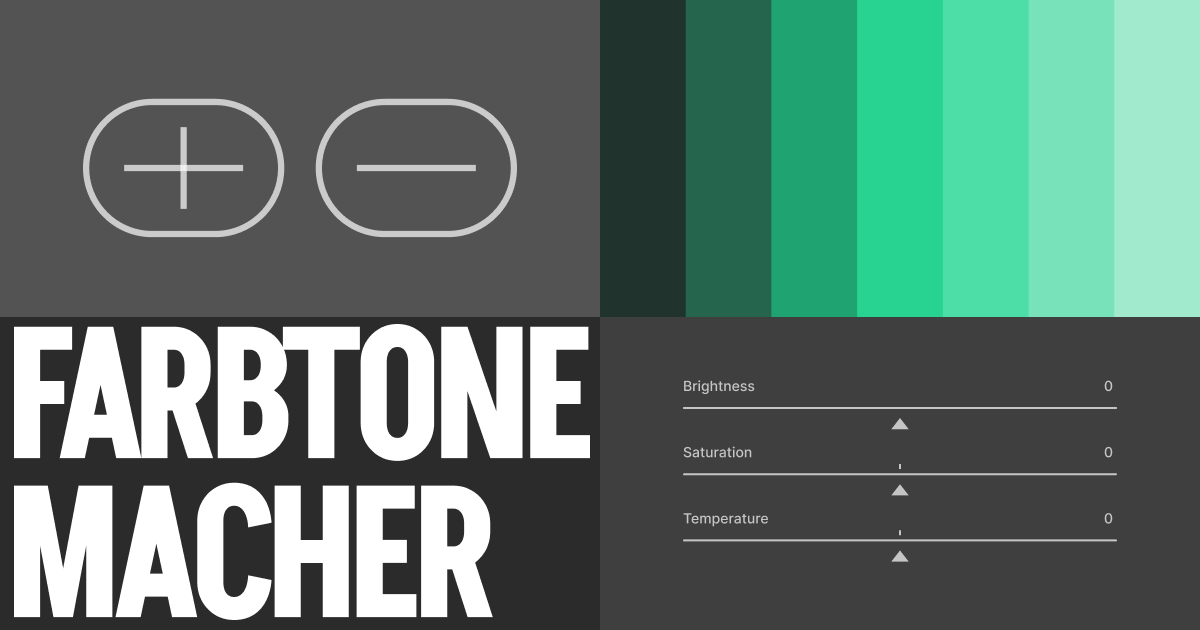
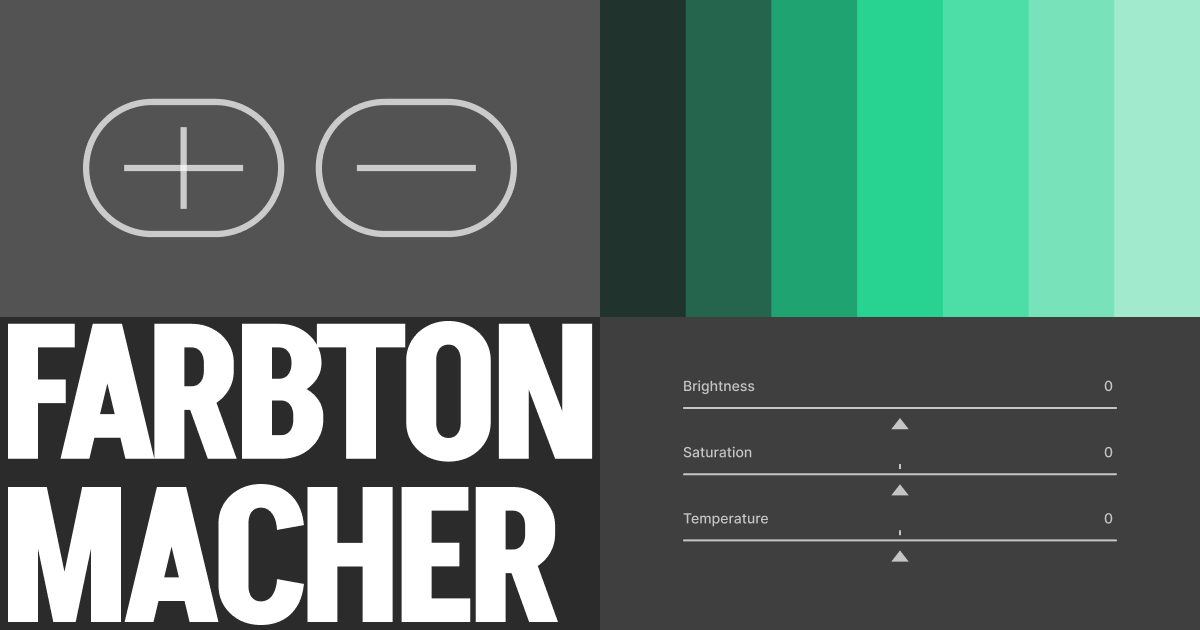
:construction: wip

Changed region(s): [[0.0, 0.5127, 0.4933, 0.9952]]

diff --git a/src/pages/index.tsx b/src/pages/index.tsx
@@ -103,10 +103,10 @@ export default function Home() {
   return (
     <>
       <Head>
-        <title>Farbtonemacher | Shades generator</title>
+        <title>Farbtonmacher | Shades generator</title>
         <meta
           name="description"
-          content="Farbtonemacher is a tool that helps you to generate color shades
+          content="Farbtonmacher is a tool that helps you to generate color shades
           based on your main color. You can adjust the brightness, saturation
           and temperature of the shades. You can also share your color
           configuration with others by copying the URL."
@@ -123,10 +123,10 @@ export default function Home() {
           href="/farbtonmacher/apple-touch-icon.png"
         />
         <meta name="theme-color" content="#4a4a4a"></meta>
-        <meta property="og:title" content="Farbtonemacher | Shades generator" />
+        <meta property="og:title" content="Farbtonmacher | Shades generator" />
         <meta
           property="og:description"
-          content="Farbtonemacher is a tool that helps you to generate color shades
+          content="Farbtonmacher is a tool that helps you to generate color shades
           based on your main color. You can adjust the brightness, saturation
           and temperature of the shades. You can also share your color
           configuration with others by copying the URL."

diff --git a/README.md b/README.md
@@ -1,7 +1,7 @@
-# Farbtonemacher
+# Farbtonmacher
 
 ![preview](./og-image.png)
 
-Farbtonemacher is a tool that helps you to generate color shades based on your main color. You can adjust the brightness, saturation and temperature of the shades. You can also share your color configuration with others by copying the URL.
+Farbtonmacher is a tool that helps you to generate color shades based on your main color. You can adjust the brightness, saturation and temperature of the shades. You can also share your color configuration with others by copying the URL.
 
 ## GitHub Pages: https://pavellaptev.github.io/farbtonmacher
